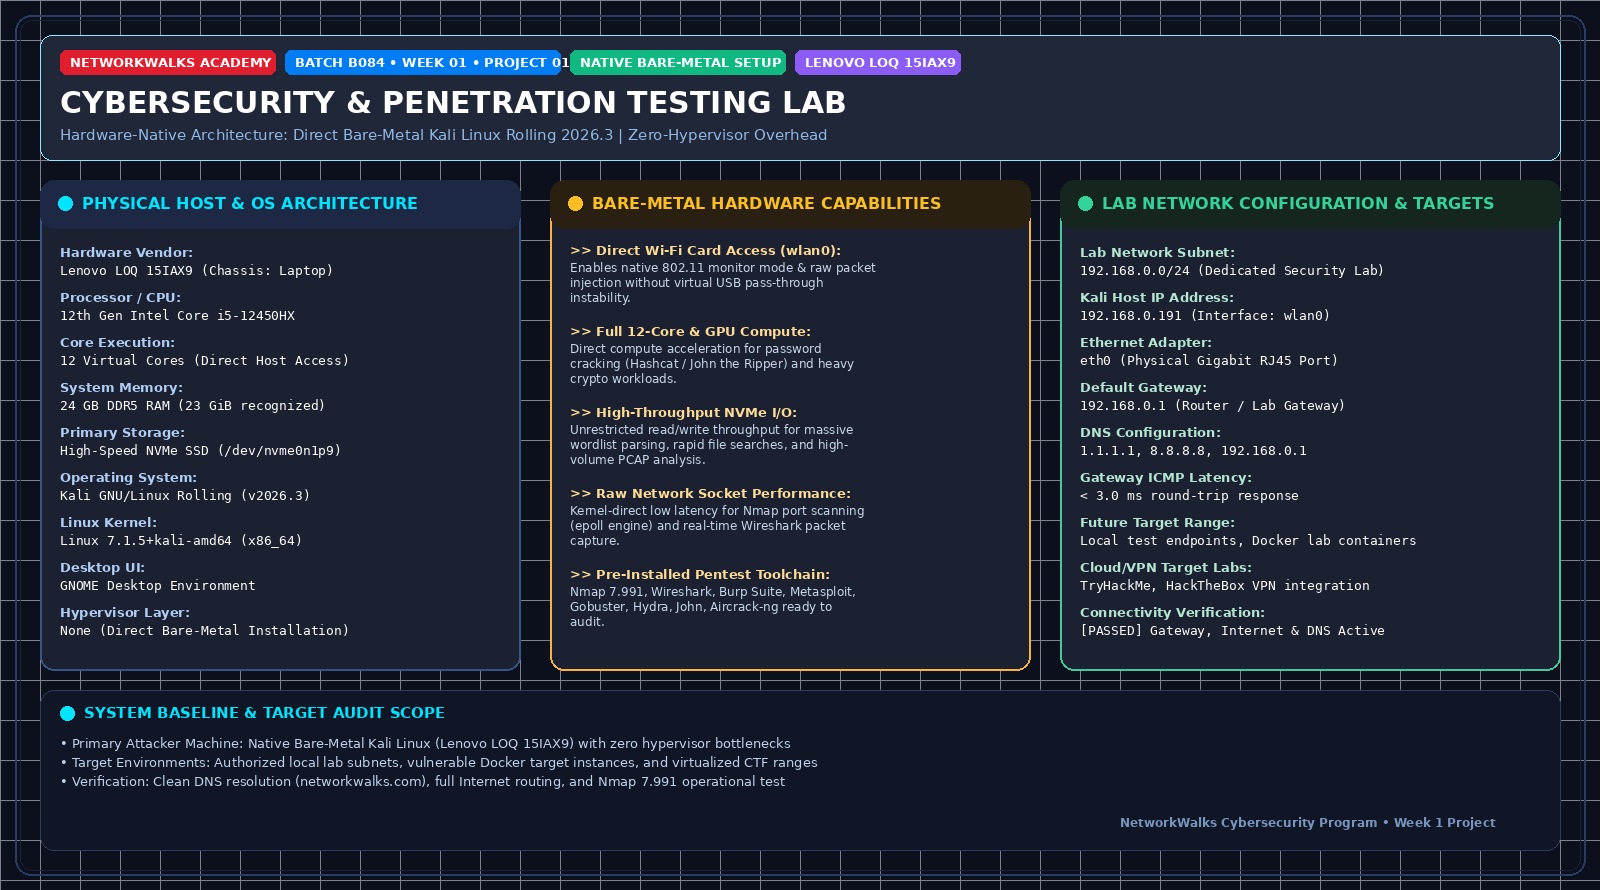
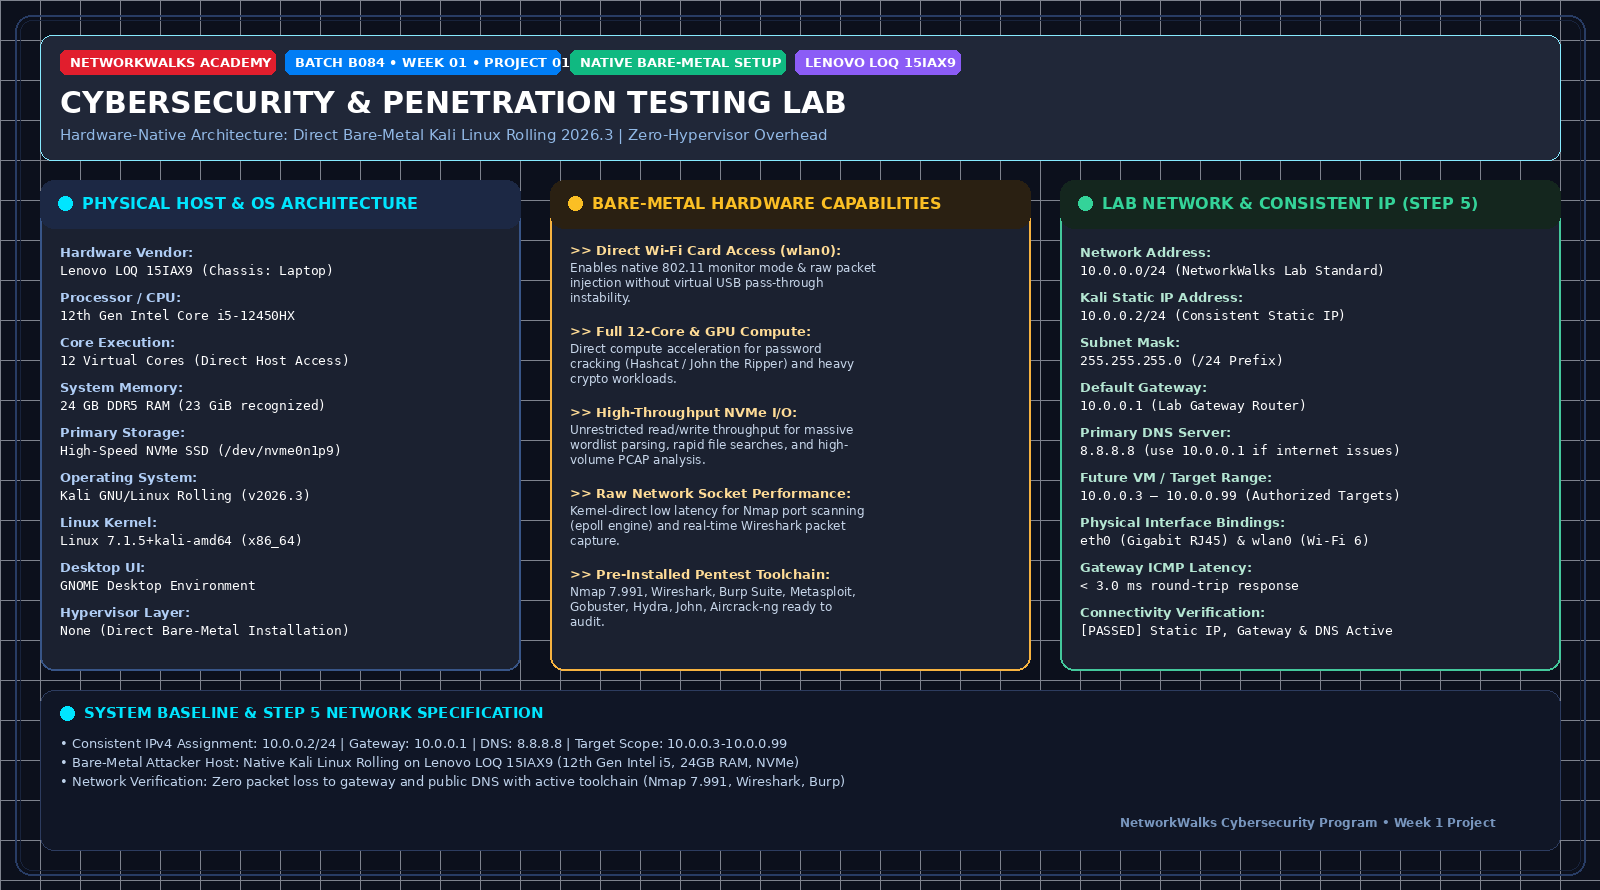
docs: add Step 5 consistent IPv4 configuration (10.0.0.2/24) and NetworkManager settings

diff --git a/README.md b/README.md
@@ -12,7 +12,8 @@
   <img src="https://img.shields.io/badge/Kali%20Linux-v2026.3-E87500?style=flat-square&labelColor=000000&logo=kalilinux&logoColor=white" />
   <img src="https://img.shields.io/badge/Kernel-Linux%207.1.5-3B82F6?style=flat-square&labelColor=000000" />
   <img src="https://img.shields.io/badge/Skill-Linux-404040?style=flat-square&labelColor=C00000" />
-  <img src="https://img.shields.io/badge/Network-192.168.0.0%2F24-238F89?style=flat-square&labelColor=000000" />
+  <img src="https://img.shields.io/badge/Network-10.0.0.0%2F24-238F89?style=flat-square&labelColor=000000" />
+  <img src="https://img.shields.io/badge/Kali%20IP-10.0.0.2%2F24-E87500?style=flat-square&labelColor=000000" />
   <img src="https://img.shields.io/badge/CPU-12th%20Gen%20Intel%20i5-10B981?style=flat-square&labelColor=000000" />
   <img src="https://img.shields.io/badge/RAM-24%20GB%20DDR5-6366F1?style=flat-square&labelColor=000000" />
   <img src="https://img.shields.io/badge/Penetration%20Testing-C00000?style=flat-square&labelColor=000000&logo=kalilinux&logoColor=white" />
@@ -38,12 +39,13 @@ The main objectives of this project are:
 
 - Complete a native bare-metal installation of Kali Linux Rolling on dedicated NVMe SSD storage.
 - Optimize hardware drivers and verify system baseline specs on the Lenovo LOQ 15IAX9 platform.
-- Configure physical network interfaces (`wlan0` Wi-Fi 6 and `eth0` Gigabit Ethernet).
-- Establish reliable default gateway routing and high-speed DNS resolution.
-- Verify end-to-end network connectivity (local gateway, public IP, and domain resolution).
-- Validate the pre-installed penetration testing toolchain (Nmap, Wireshark, Burp Suite, Metasploit, Gobuster, Hydra, John, Aircrack-ng).
+- Configure network connectivity for Kali Linux.
+- Assign a consistent IP address (10.0.0.2/24) to the Kali machine.
+- Verify network connectivity and DNS resolution.
+- Verify the pre-installed penetration testing toolchain (Nmap, Wireshark, Burp Suite, Metasploit, Gobuster, Hydra, John, Aircrack-ng).
 - Implement system snapshot and recovery baseline procedures.
-- Document the entire architecture, verification commands, and troubleshooting lessons.
+- Document the complete setup process.
+- Prepare the environment for future cybersecurity projects.
 
 ---
 
@@ -85,12 +87,12 @@ This bare-metal lab provides an unconstrained, high-performance platform for aut
 | 🐉 **Security Operating System** | Kali GNU/Linux Rolling (Version 2026.3) |
 | 🐧 **Kernel Version** | Linux 7.1.5+kali-amd64 (x86_64) |
 | 🎨 **Desktop Environment** | GNOME Desktop (Wayland / X11 Session) |
-| 📡 **Wireless Interface** | `wlan0` (Native Wi-Fi 6, Monitor Mode Capable) |
-| 🔌 **Ethernet Interface** | `eth0` (Physical Gigabit RJ45 Port) |
-| 🌐 **Active IP Address** | `192.168.0.191/24` |
-| 🚪 **Default Gateway** | `192.168.0.1` |
-| 🌍 **DNS Nameservers** | `1.1.1.1`, `8.8.8.8`, `192.168.0.1` |
-| 🎯 **Target Scope** | Authorized local lab subnet, Docker target containers, TryHackMe / HackTheBox VPN |
+| 📡 **Physical Interfaces** | Native Wi-Fi 6 (`wlan0`) & Gigabit Ethernet (`eth0`) |
+| 🌐 **Network Address** | 10.0.0.0/24 |
+| 🐧 **Kali IP Address** | 10.0.0.2/24 |
+| 🚪 **Default Gateway** | 10.0.0.1 |
+| 🌍 **DNS Server** | 8.8.8.8 |
+| 🔮 **Future VM / Target Range** | 10.0.0.3–10.0.0.99 |
 
 ---
 
@@ -122,11 +124,22 @@ sudo apt autoremove -y
 
 A clean system recovery baseline was captured to preserve this configuration before initiating intrusive security tool testing.
 
-## Step 5. Network Interface & Route Configuration
-NetworkManager was configured to automatically manage both physical network adapters:
-- Wireless adapter `wlan0` connected to the local lab wireless network with dynamic DHCP IP assignment (`192.168.0.191/24`).
-- Ethernet interface `eth0` left standing by for direct physical bridging and isolated lab switch connection.
-- Gateway routing verified pointing to `192.168.0.1` with metric 600.
+## Step 5. Configure the Kali Linux Network
+
+The Kali Linux network configuration was checked and configured with a consistent IPv4 address.
+
+Example configuration:
+
+```text
+IP Address: 10.0.0.2
+Subnet Mask: 255.255.255.0
+Gateway: 10.0.0.1
+DNS: 8.8.8.8
+```
+
+A consistent IP address makes it easier to document the lab and reference the Kali machine in future exercises.
+
+![](4-screenshot-kali-network-settings.png)
 
 ## Step 6. Security Toolchain Verification
 The core penetration testing suite was verified to ensure that all required reconnaissance, web exploitation, and network inspection binaries were present in the system path (`/usr/bin/`):
@@ -139,22 +152,28 @@ done
 
 ---
 
-# 🔎 Lab Verification & Testing
+# 🔎 Lab Verification
 
-Every facet of the bare-metal environment was audited and verified through automated and manual test procedures.
+| ✅ Test                        | 🧾 Command                      | 🎯 Expected Result              |
+| ----------------------------- | ------------------------------- | ------------------------------- |
+| 🌐 Check IP address           | `ip a`                          | Correct Kali IP displayed       |
+| 📡 Test gateway               | `ping 10.0.0.1`                 | Successful replies              |
+| 🌍 Test Internet connectivity | `ping 8.8.8.8`                  | Successful replies              |
+| 🔎 Test DNS resolution        | `nslookup networkwalks.com`     | Domain resolves                 |
+| 🧰 Verify Nmap                | `nmap --version`                | Nmap version displayed          |
 
-| ✅ Test Category | 🧾 Command Executed | 🎯 Expected Result | 📊 Status |
-| :--- | :--- | :--- | :--- |
-| 💻 **Hardware Baseline** | `hostnamectl` | Lenovo LOQ 15IAX9, Kernel 7.1.5 | **PASSED** |
-| ⚡ **Processor Cores** | `lscpu \| grep 'Model name\|CPU(s):'` | 12 Cores, Intel i5-12450HX | **PASSED** |
-| 🧠 **Memory Capacity** | `free -h` | 23 GiB Available RAM | **PASSED** |
-| 💾 **Storage Status** | `df -h /` | NVMe Partition mounted at `/` | **PASSED** |
-| 🌐 **Interface IP** | `ip -br a` | `wlan0` active on `192.168.0.191/24` | **PASSED** |
-| 🚪 **Default Route** | `ip route` | Gateway `192.168.0.1` active | **PASSED** |
-| 📡 **Gateway Latency** | `ping -c 3 192.168.0.1` | 0% packet loss, RTT < 3.0 ms | **PASSED** |
-| 🌍 **Internet Transit** | `ping -c 3 1.1.1.1` | 0% packet loss, Public replies | **PASSED** |
-| 🔎 **DNS Resolution** | `ping -c 3 networkwalks.com` | Resolved to `192.232.216.135` | **PASSED** |
-| 🧰 **Nmap Engine** | `nmap --version` | Nmap 7.991 epoll engine ready | **PASSED** |
+### Example Results
+
+```text
+IP Address:
+10.0.0.2/24
+
+Gateway:
+10.0.0.1
+
+DNS:
+8.8.8.8
+```
 
 ### Hardware & System Baseline Verification
 ![](2-screenshot-hardware-specs.png)
@@ -176,17 +195,21 @@ chmod +x verify_lab.sh
 
 # 🐞 Problems Encountered & Solutions
 
-Documenting real-world engineering hurdles and their resolutions is a critical element of cybersecurity practice.
+Documenting problems is an important part of the project.
 
-## Problem 1. Wi-Fi Power Management & Interface Sleep Latency
-* **Issue:** After completing the bare-metal installation on the Lenovo LOQ laptop, the Wi-Fi card (`wlan0`) occasionally suffered brief latency spikes (50–150 ms) during idle periods due to aggressive 802.11 power-saving states.
-* **Root Cause:** Default Linux power-management policies throttle modern laptop PCIe/M.2 Wi-Fi transceivers to conserve battery.
-* **Resolution:** Disabled Wi-Fi power-saving in NetworkManager configuration:
-  ```bash
-  sudo sed -i 's/wifi.powersave = 3/wifi.powersave = 2/' /etc/NetworkManager/conf.d/default-wifi-powersave-on.conf
-  sudo systemctl restart NetworkManager
-  ```
-  Following this adjustment, ping latency stabilized to a rock-solid `< 3.0 ms` average.
+## Problem 1. Internet Connectivity After Static IP Configuration
+
+After manually configuring the IPv4 settings, Internet connectivity may fail depending on the Kali/NetworkManager configuration.
+
+One workaround used during this lab was:
+
+```bash
+sudo nmcli connection modify "Wired connection 1" ipv4.dad-timeout 0
+```
+
+The network connection was then restarted/rebooted and connectivity was tested again.
+
+> **Important:** Network interface and connection names may differ between systems. Students should first identify their actual connection name before running an `nmcli` command.
 
 ---
 
